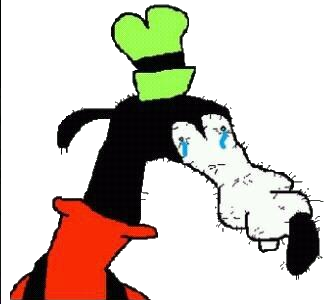
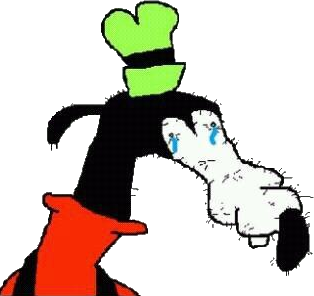
something changed

Changed region(s): [[0.0, 0.0, 1.0, 1.0]]

diff --git a/VineScope/js/viewmodels.js b/VineScope/js/viewmodels.js
@@ -1,9 +1,9 @@
 /// <reference path="//Microsoft.WinJS.1.0/js/ui.js" />
 
-var url = "http://vinescopecustomservices.apphb.com/api/vines/";
-
 (function () {
     "use strict";
+
+    var url = "http://vinescopecustomservices.apphb.com/api/vines/";
 
     var vinesList = new WinJS.Binding.List([]);
     var searchResults = new WinJS.Binding.List([]);
@@ -30,14 +30,12 @@ var url = "http://vinescopecustomservices.apphb.com/api/vines/";
             for (var i = 0; i < vinesDTOs.length; i++) {
                 vinesList.push(vinesDTOs[i]);
             }
-        }, function error(response) {
-            //var errorMessage = new Windows.UI.Popups.MessageDialog("No connection with server");
-            //errorMessage.showAsync();
+        }, function error() {
             var problemContainer = document.getElementById("problem-reporter");
             var h2 = document.createElement("h2");
             h2.innerText = "Something happened, there is a problem with the connection";
             var img = document.createElement("img");
-            img.src = "../../images/sad-panda.png";
+            img.src = "../../images/sad-gooby.png";
             problemContainer.appendChild(h2);
             problemContainer.appendChild(img);
         }).done();
@@ -53,7 +51,10 @@ var url = "http://vinescopecustomservices.apphb.com/api/vines/";
             vine.url = vineDTO.url;
             vine.posterUrl = vineDTO.posterUrl;
             vine.author = vineDTO.author;
-        }).done();
+        }, function error() {
+            var errorMessage = new Windows.UI.Popups.MessageDialog("No connection with server");
+            errorMessage.showAsync()
+        });
     }
 
     var searchQuery = WinJS.Binding.as({ queryText: ""});
@@ -72,6 +73,9 @@ var url = "http://vinescopecustomservices.apphb.com/api/vines/";
                 var vineDTO = vinesDTOs[i];
                 vinesList.push(vineDTO);
             }
+        }, function error() {
+            var errorMessage = new Windows.UI.Popups.MessageDialog("No connection with server");
+            errorMessage.showAsync()
         });
     }
 

diff --git a/VineScope/js/datalayer.js b/VineScope/js/datalayer.js
@@ -33,9 +33,6 @@
             var jsonResponse = response.responseText;
             vine = JSON.parse(jsonResponse);
             return vine;
-        }, function error(response) {
-            var errorMessage = new Windows.UI.Popups.MessageDialog("No connection with server");
-            errorMessage.showAsync()
         });
     }
 
@@ -46,9 +43,6 @@
             var jsonResponse = response.responseText;
             vine = JSON.parse(jsonResponse);
             return vine;
-        }, function error(response) {
-            var errorMessage = new Windows.UI.Popups.MessageDialog("No connection with server");
-            errorMessage.showAsync()
         });
     };
 
@@ -57,6 +51,5 @@
         getVine: getVine,
         searchVines: searchVines,
         getRandomVine: getRandomVine,
-        //lastVineUrl: lastVineUrl
     });
 })()

diff --git a/VineScope/pages/home/home.css b/VineScope/pages/home/home.css
@@ -16,3 +16,12 @@
         margin-right: 100px;
     }
 }
+
+#problem-reporter {
+    text-align: center;
+    padding-top: 30px;
+}
+
+    #problem-reporter > h2, #problem-reporter > img {
+        margin-top: 50px;
+    }
